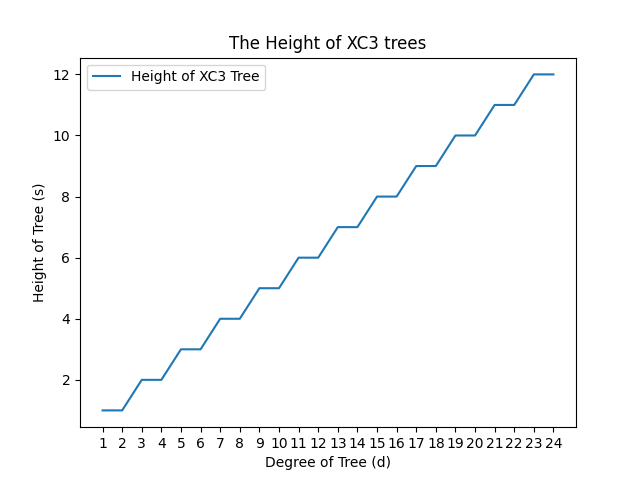
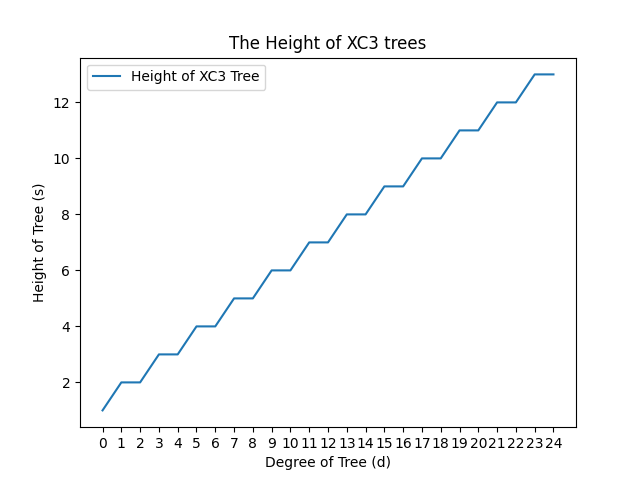
Experiment 3

diff --git a/main.tex b/main.tex
@@ -59,6 +59,9 @@
 \tableofcontents
 \newpage
 
+\tableoffigures
+\newpage
+
 %% ------------------------------------------------------------------------------------------ %%
 %% ------------------------------------------------------------------------------------------ %%
 %% ------------------------------------------------------------------------------------------ %%
@@ -171,37 +174,176 @@ At both $n=50$ and $n=1000$, (in trials 1 and 4), the RBT appears to have a heig
 
 Then, we can say that a RBT will, empirically, in general, have a height that is $< \approx 60\%$ that of a BST.
 
+Therefor, looking at the cases we have been given, we conclude that there is almost no need to have a BST, as a RBT out performs it in every scenario provided. The only scenario that a BST may be preferable is when the tree size is small and the performance increase does not warrant actually implementing a RBT.
 
 %% ------------------------------------------------------------------------------------------ %%
+\newpage
 \subsection{Experiment 2}
 
 \subsubsection{Outline}
 
-\subsubsection{Results}
+Like in Experiment 1, We trial based on the height of the tree, but now we keep the number of insertions constant.
 
-\subsubsection{Takeaway}
+We define our test, \textit{Height Test}. We take in 4 values.
+\begin{itemize}
+    \item $z$, the number of trials to perform per data point.
+    \item $n$, the number of insertions to be done per tree.
+    \item $X$ A range of swaps to be performed.
+\end{itemize}
+
+The process of the test is as follows:
+
+\begin{enumerate}
+    \item Initialize an Empty RBT and BST.
+    \item Generate a sorted list $L$ of size $n$.
+    \item Perform $x$ swaps in the list, where $x \in X$.
+    \item Perform insertions of the values in $L$ into the RBT and BST, in the same order.
+    \item Take note of the height of both the RBT and the BST.
+    \item Average the results of the heights over the $z$ trials per data point $x$.
+\end{enumerate}
+
+Finally, we define the actual tests we performed.
+\begin{enumerate}
+    \item A Height Test, where $z=1, n=10000$ and $X$ starts from 0, goes to $n$, skipping every 250.
+    
+    \item A Height Test, where $z=10, n=10000$ and $X$ starts at 250, goes to $2n$, skipping every 250.
+
+    \item A Height Test, where $z=3, n=10000$ and $X$ starts from 0, goes to $250$, skipping every $5^{th}$ node count.
+\end{enumerate}
+
+\subsubsection{Take Away Test 1}
+\figureInsetScaled{images/experiment2/Figure_1.png}{}{0.5}
+
+The idea of this trial is to get a basic understanding of how they behave, on average.
+
+What we can see from Figure 5 is that right away, the height of the BST is exactly 10000, which is our $n$ value for this test. This is because inserting a sorted list into a binary search tree effectively creates a linked list structure; every insertion is larger than the previous, meaning it is always placed into the right child of the bottom node. This means that our height of our tree is exactly the length of the list.
+
+Our RBT has no such issue, staying extremely low due to our branch rotation.
+
+What this means is that the Difference sticks very closely to the height of the BST.
+
+\subsubsection{Results Test 2}
+\figureInsetScaled{images/experiment2/Figure_2.png}{}{0.5}
+
+As we have already seen the worst case in Figure 5, for this test we start with 250 swaps. This way, we don't have to see the large data point at x=0 which causes the range of the y axis to be extremely large.
+
+In this test, we expand the number of swaps to see how random swaps 
+
+After $n$ random swaps, we are effectively guaranteed a random list, so we expand this range to see if the number of swaps after this range has any affect on the height of the tree.
+
+What we see is that it doesn't-- after we have successfully `fully' randomized the list, no more swaps cause any change.
+
+We see once again that the difference sticks very closely to the height of the BST.
+
+\subsubsection{Results Test 3}
+\figureInsetScaled{images/experiment2/Figure_3.png}{}{0.5}
+
+As in Test 2, we removed the interaction of the worst case for BST to make it easier to see the rest of the graph, here we ONLY include the worst case test to see the difference between them.
+
+This test then, is just a zoomed in version of between the first two data points (x=0 and x=250) in Figure 5.
+
+As we see in Figure 7, the Height of the BST very quickly drops down to somewhat `reasonable' levels (much closer to the RBT), while the RBT stays quite low the entire time. 
+
+And again, the difference sticks very closely to the height of the BST.
+
+\subsubsection{Final Takeaway}
+
+Because we perform swaps in the list, and we perform the insertions into a tree based on the order of the list, we are testing the effect of the order of insertions on the height of a tree. Because all we do is swap, all of our insertion lists are permutations of one another.
+
+We also note that after completing n swaps, we effectively are performing the same tests as in Experiment 1, with truly unique values. We can verify this by performing another test and seeing the difference in height.
+
+We can see that throughout the entire experiment, that the height of the RBT is effectively constant. This means that the height of a Red Black Tree is invariant on the order of insertions.
+
+However, as we see in Figure 5 and 7, the order of the insertions can have a large effect on the height of the tree.
 
 %% ------------------------------------------------------------------------------------------ %%
 %% ------------------------------------------------------------------------------------------ %%
 %% ------------------------------------------------------------------------------------------ %%
 
-
+\newpage
 \section{Part Two}
 \subsection{Experiment 3}
 
 \subsubsection{Outline}
 
-\subsubsection{Results}
+After defining the XC3 Tree and looking at the height of the trees with degrees 0 through 25, we are given these results.
 
-\subsubsection{Takeaway}
+\figureInsetScaled{images/experiment3/Figure_1.png}{Height of XC3 At Different Degrees}{0.65}
+
+As we can see, we step up in height after every second node.
+
+As we start at height of 1 at a degree of 0, we then go straight away to height 2 at degree 1. We can also see that at degree 3 we go up to height of 3.
+
+Thus, every time we increment from an even degree to an odd degree we increase the height.
+
+Thus, we can say our equation for the height of the tree is 
+\\
+{
+\Large
+\begin{center}
+    $h(i) = \lfloor \frac{i+3}{2} \rfloor$\\
+    $ $
+\end{center}
+}
+\\
+Where $i$ is the degree of the tree.
+
+The reasons for this behaviour become clear when we draw out the degree of each tree.
+
+
+These rules from the definition of the XC3 is important to recite here:
+
+\begin{itemize}
+    \item Each child of the root node of an XC3-Tree is also an XC3-Tree.
+    \item The ith child of the root node of an XC3-Tree has degree (i-2) if i > 2. Otherwise it has degree 0.
+\end{itemize}
+
+\subsubsection{XC3 Tree Height Increase Explanation}
+
+\figureInsetScaled{images/experiment3/points.png}{XC3 Trees of Degrees 0 - 5}{0.65}
+
+Some properties we can also see looking at this diagram
+\begin{itemize}
+    \item A Degree $i$ is `shared' or `contained' in a degree $i+1$ tree. That is, each tree is built off the previous degree.
+\end{itemize}
+
+When we build our tree, we start at degree 0. It must have no children. However, as we use in our definition and diagram in the assignment, we see that we must use a node, somewhere. As every tree is built with degree 0 trees, A degree 0 tree must contain at least one node, thus having height one.
+
+At Degree $i=1$, we see that we must now increase the height of the tree.
+
+At Degree $i=2$, We add another node. Because we add a second child, it must also have degree 0, thus the height of our tree does not increase.
+
+However, at degree $i=3$, we now add a child where it's `local' i is $>2$. Thus, we now take $i-2 = 1$. Because of rule 1, we see we must add a valid XC3 tree of degree 1. A tree of degree one has it's own child node, which increases our tree's height.
+
+At degree $i=4$, we must now also add a child of degree $2$. However, A Degree 2 XC3-Tree has the same height as a degree 1 XC3 Tree, which means our Degree 4 tree does not increase in height, but rather fills out the bottom layer.
+
+\subsubsection{XC3 Tree Height Increase Reword}
+
+We can repeat this pattern on forever. At the root of the cause is this: an Odd degree tree will contain, at some point, a degree 1 descendant$^{*}$, without a matching degree 2 descendant in the same generation$^{*}$. 
+
+When we add another degree, this tree is repeated, but with the addition of the degree 2 node on the same generation- causing no height change.
+
+And when we repeat this again, we would append a degree 3 node, which then has a degree 1 child.
+
+This is, in effect, a recursive definition.
+
+This property of having a single descendant at the bottom of it's ith node descendants is the reason why an XC3-Tree increases in height every other node.
+
+------------------------------------------------------
+
+{
+\small
+I hesitate to use the word grandchild as some node could be many `layers' deep, not necessarily the child of the child. I use the word generation to stick with the `family' relation terminology.
+}
 
 %% ------------------------------------------------------------------------------------------ %%
 %% ------------------------------------------------------------------------------------------ %%
 %% ------------------------------------------------------------------------------------------ %%
 
+\newpage
 \subsection{Experiment 4}
 
-\subsubsection{Outline}
+\subsubsection{Outline}mosia
 
 \subsubsection{Results}
 

diff --git a/code/XC3.py b/code/XC3.py
@@ -20,7 +20,7 @@ class XC3Node:
                 self.children.append(XC3Node(i - 2))
 
     def get_height(self):
-        return math.ceil(self.degree / 2)
+        return math.floor((self.degree+1) / 2) + 1
 
     def get_number_of_nodes(self):
         if self.degree == 0 or self.degree == 1 or self.degree == 2:

diff --git a/code/experiment3.py b/code/experiment3.py
@@ -13,7 +13,7 @@ def test():
     #New Dict
     nodes = PlotGroup("Height of XC3 Tree")
 
-    rang = range(1,25,1)
+    rang = range(0,25,1)
     for i in rang:
         root = XC3Node(i)
         nodes.add_point(i, root.get_height())
